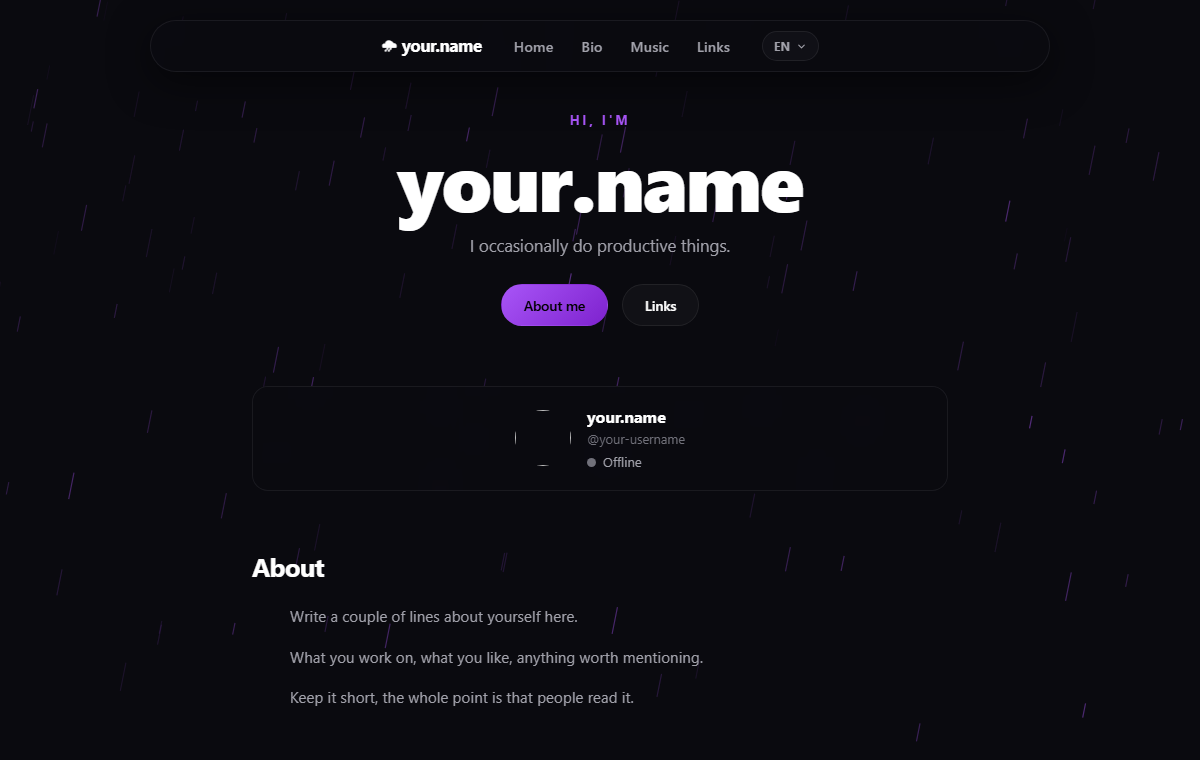
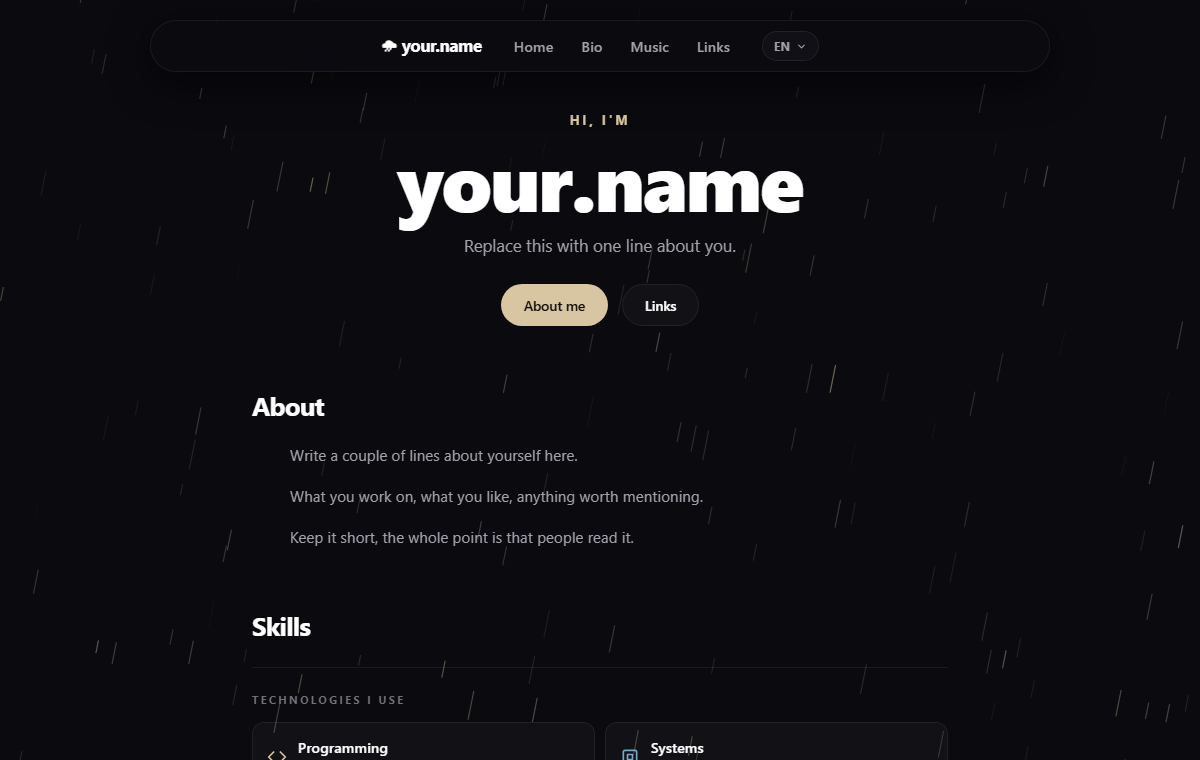
Refresh the screenshots and show them in the README

diff --git a/README.md b/README.md
@@ -7,7 +7,20 @@ or Cloudflare Pages.
 Plain HTML, CSS and JavaScript. No framework, no bundler, no build step, no
 tracking, no cookie banner.
 
-![screenshot](assets/preview.png)
+![Home](assets/preview.png)
+
+<table>
+  <tr>
+    <td width="33%"><img src="assets/preview-bio.png" alt="Bio page"></td>
+    <td width="33%"><img src="assets/preview-music.png" alt="Music page"></td>
+    <td width="33%"><img src="assets/preview-mobile.png" alt="Mobile view"></td>
+  </tr>
+  <tr>
+    <td align="center"><sub>Bio</sub></td>
+    <td align="center"><sub>Music</sub></td>
+    <td align="center"><sub>Mobile</sub></td>
+  </tr>
+</table>
 
 ## Running it
 
@@ -110,6 +123,10 @@ That writes `favicon-32x32.png`, `apple-touch-icon.png` and `icon-512.png`.
 The three HTML files already link them, plus `assets/manifest.json` for
 installable-to-homescreen.
 
+| Icon | Social preview |
+| --- | --- |
+| <img src="assets/icon-512.png" width="96" height="96" alt="Favicon"> | <img src="assets/og-image.png" width="320" alt="Open Graph preview"> |
+
 The social preview image lives next to them:
 
 ```bash
@@ -173,7 +190,7 @@ tags, `robots.txt`, `sitemap.xml` and `llms.txt` all update at once.
 ## Checking your work
 
 ```bash
-node scripts/audit.cjs
+npm run audit
 ```
 
 It checks the things that make a site look generated instead of made:
@@ -182,6 +199,24 @@ one `<h1>` per page, `alt` text on every image, the favicon and manifest,
 `robots.txt` and `sitemap.xml`, secrets in the client code, source maps,
 gradients, bundle size and the security headers. It prints a pass/fail line
 per check.
+
+```
+  AUDITORÍA DEL SITIO
+
+  OK    View source con contenido real (index.html)  — 423 caracteres de texto
+  OK    Títulos únicos por página  — your.name — Personal site | Bio | Music
+  OK    Meta description única y con largo útil  — 131 / 130 / 121 / 112
+  OK    Datos estructurados en index.html  — Person + WebSite
+  OK    Canonical en bio.html
+  OK    Open Graph completo en music.html
+  OK    Un solo <h1> en index.html  — 1
+  OK    Landmark <main> en index.html
+  OK    robots.txt permite explícitamente a los asistentes de IA
+  OK    Sin claves ni tokens en el código que llega al navegador
+  OK    Sin bundle gigante  — 210 KB totales
+  ...
+  63/63 comprobaciones correctas
+```
 
 ## Deploying
 
@@ -253,11 +288,16 @@ scripts/
   build.js          copies files into public/ with a version hash
   iconos.cjs        regenerates the favicon PNGs from the SVG
   og.cjs            regenerates the social preview image
+  capturas.cjs      takes the screenshots used in this README
   audit.cjs         checks the site and prints a report
 assets/
   favicon.svg       source of the icon
   manifest.json     web manifest
   og-image.png      social preview
+  preview.png       screenshot of the home page
+  preview-bio.png   screenshot of the bio page
+  preview-music.png screenshot of the music page
+  preview-mobile.png screenshot on a phone
 robots.txt          crawler rules
 sitemap.xml         page list
 llms.txt            summary for AI assistants
